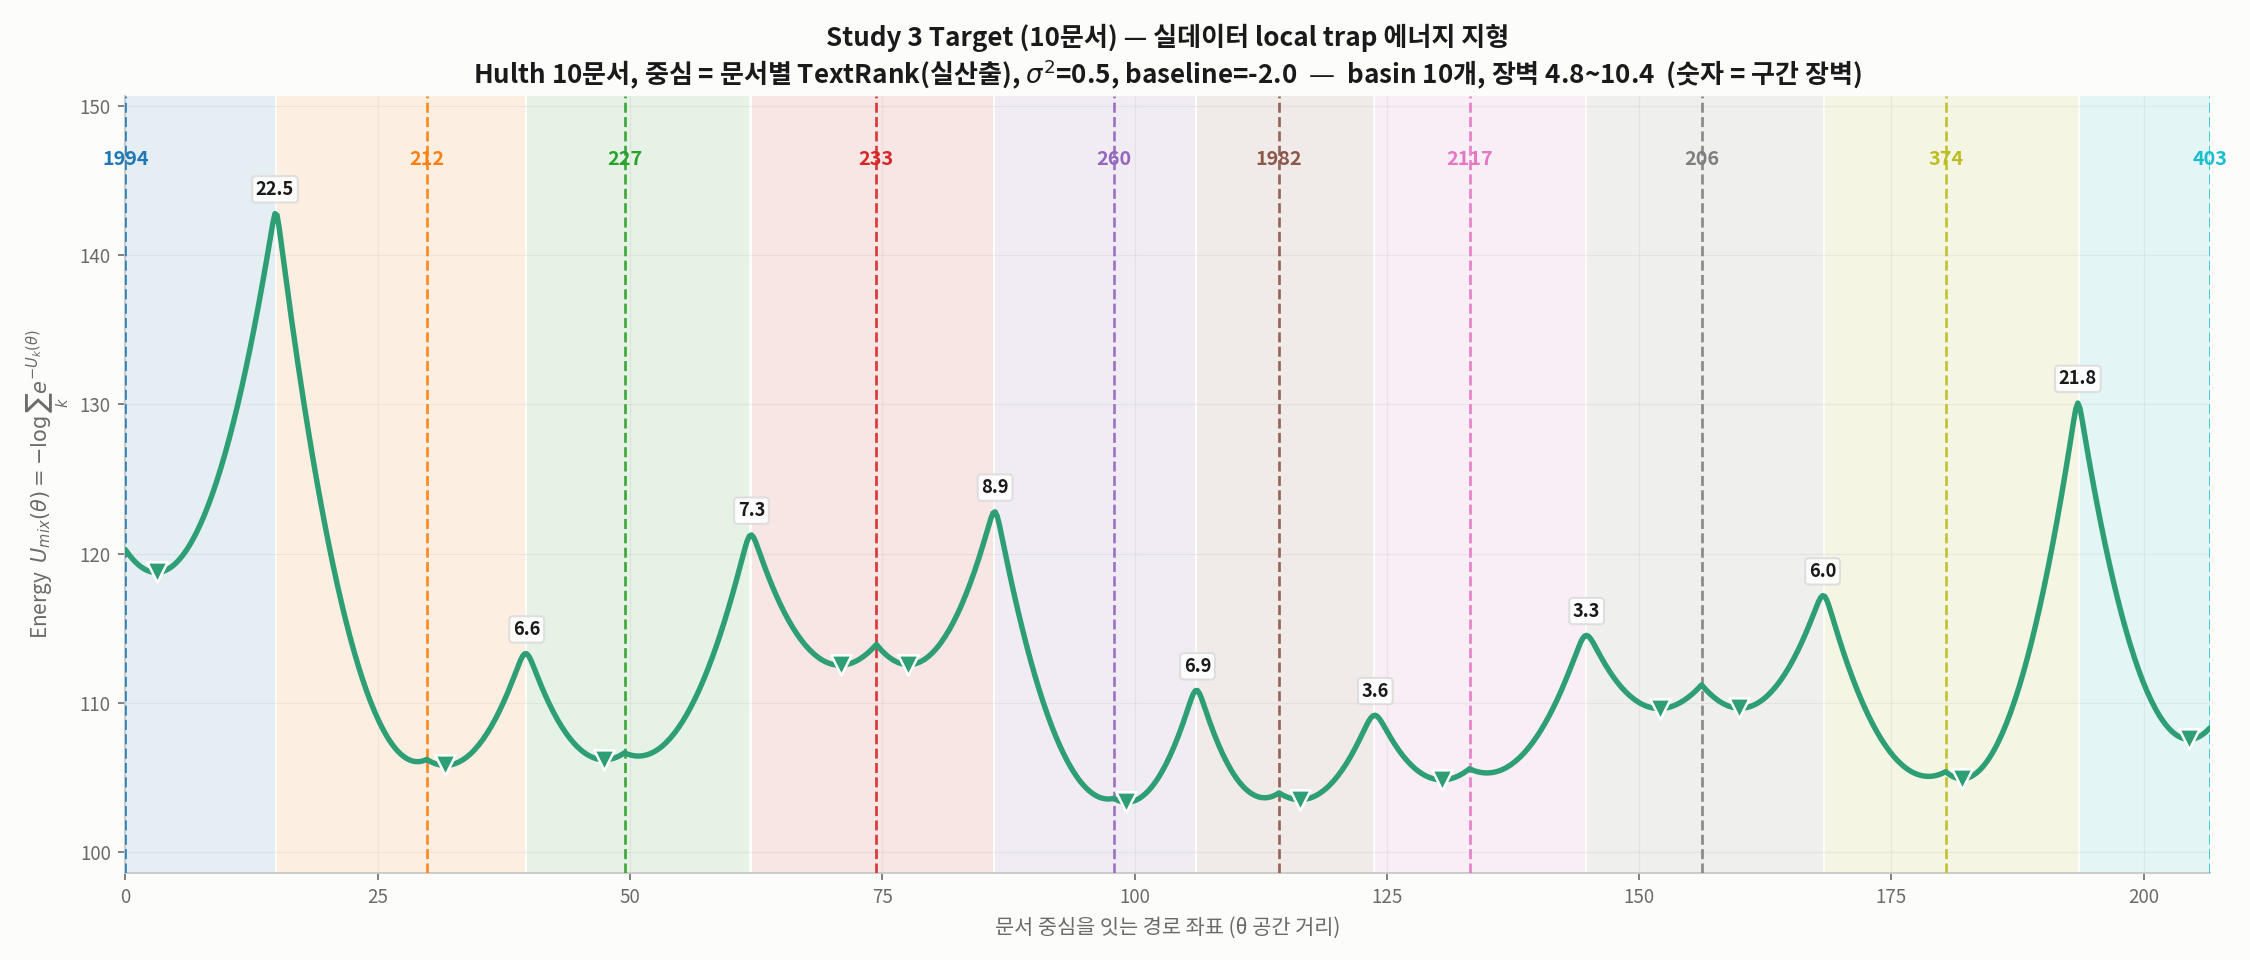
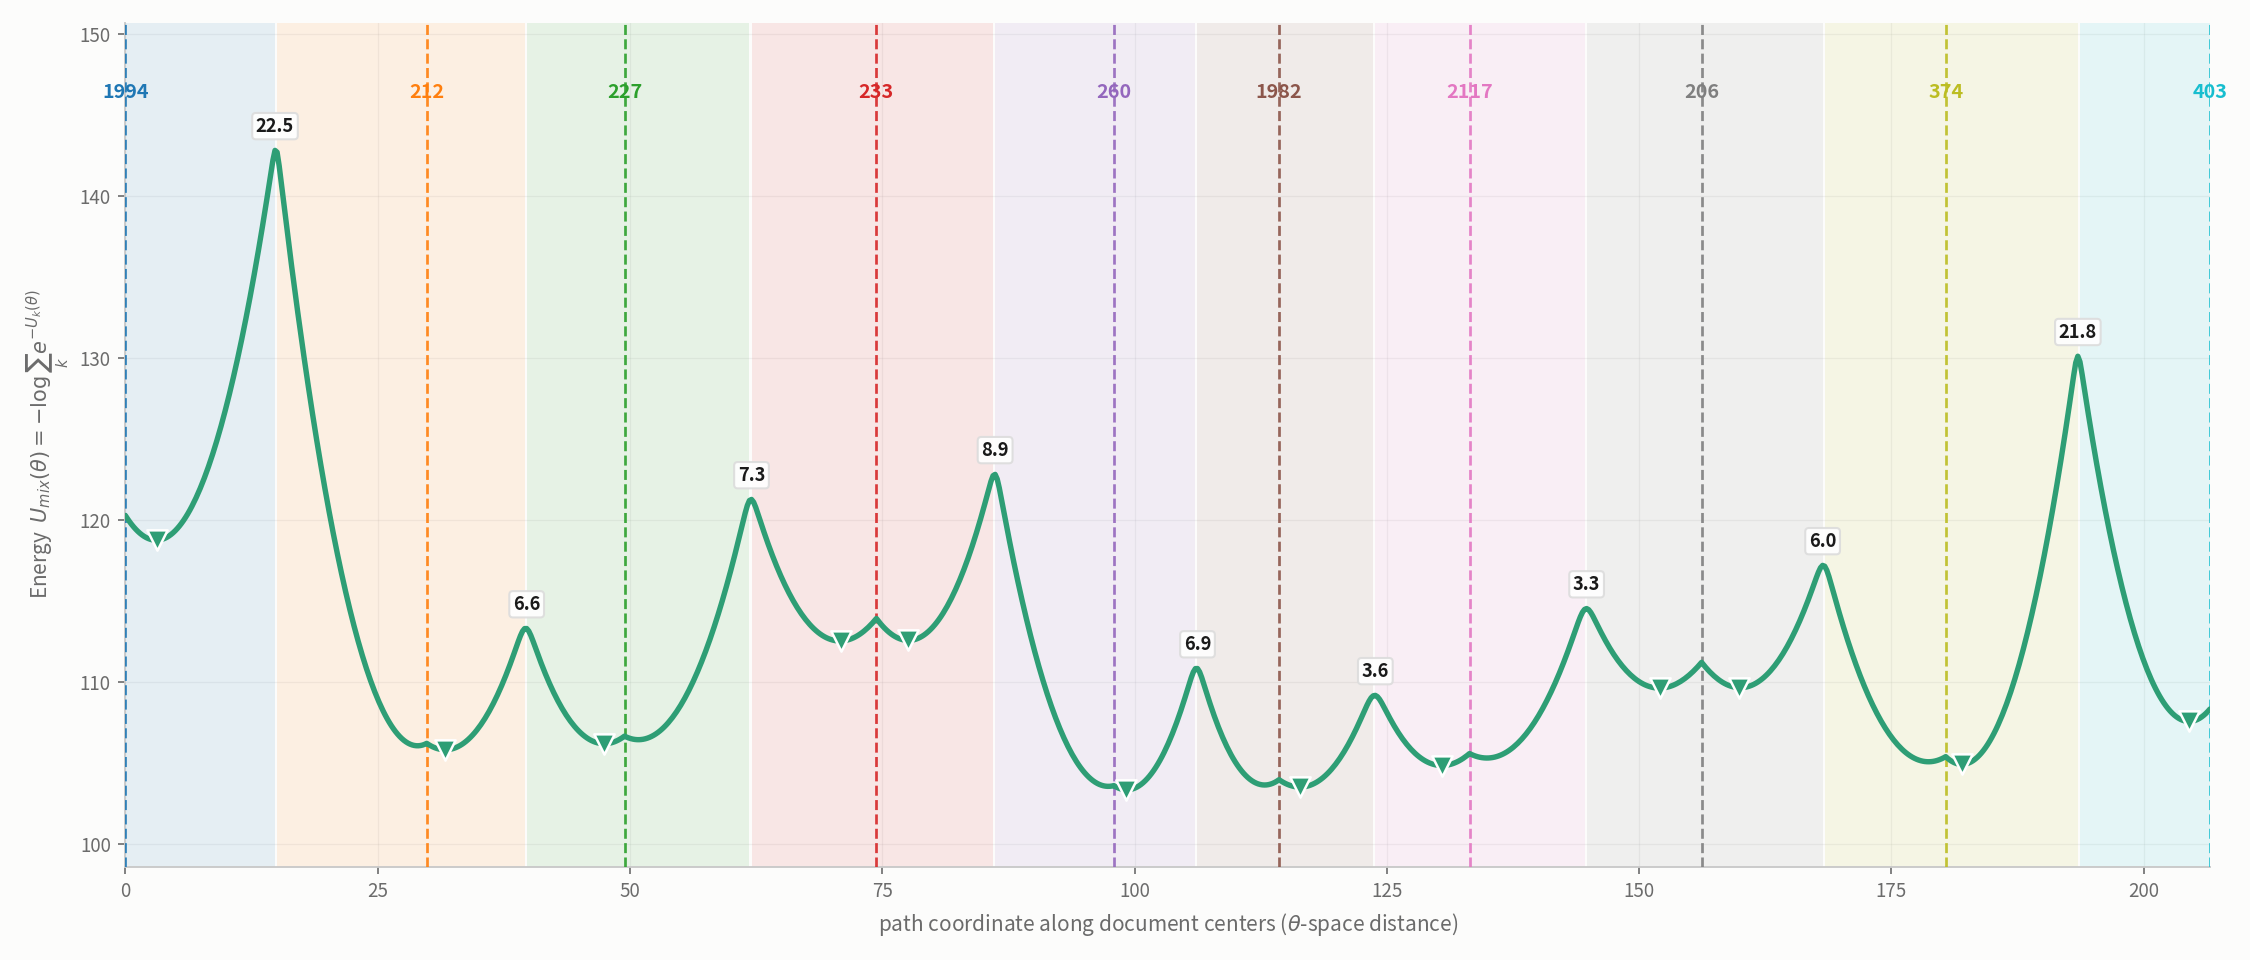
exp: Study 3 trap landscape 영문화 + 샘플러 갱신

diff --git a/simulation/study_3/trap_samplers.py b/simulation/study_3/trap_samplers.py
@@ -71,6 +71,40 @@ def awsgld(U, gU, mode, ini, seed, T, P, L, TAU=1.0, ZETA=5.0, eps0=0.1,
                 boundary_rate=nboundary / max(T - warmup, 1))
 
 
+def sgld_family(method, U, gU, mode, ini, seed, T, P, L, TAU=1.0, base_lr=1.0,
+                friction=0.1, cyc_cycles=10):
+    """study_1a/1b sgld_only.py 의 SGLD 계열을 trap(U_mix, gU) 위로 이식.
+    규칙 그대로: qSGLD 만 전처리(P,L), SGLD/cycSGLD/SGHMC 는 무전처리.
+    U/gU 는 이미 /TAU 된 함수(=exp(-U_raw/TAU) 타깃). noise sqrt(2·TAU·eps)."""
+    rng = np.random.RandomState(seed)
+    n = len(ini); th = ini.copy()
+    ths = np.zeros((T, n)); mo = np.zeros(T, dtype=np.int8)
+    v = np.zeros(n)
+    for t in range(T):
+        g = gU(th)
+        if method == "SGLD":
+            eps = base_lr / ((t + 1) ** 0.6 + 10.0)
+            th = th - eps * g + np.sqrt(2.0 * TAU * eps) * rng.randn(n)
+        elif method == "qSGLD":
+            eps = base_lr / ((t + 1) ** 0.6 + 10.0)
+            th = th - eps * (P @ g) + np.sqrt(2.0 * TAU * eps) * (L @ rng.randn(n))
+        elif method == "cycSGLD":
+            cyc = max(1, T // cyc_cycles); beta = (t % cyc) / cyc
+            eps = base_lr / 2.0 * (np.cos(np.pi * min(beta, 0.8)) + 1.0)
+            tau_k = TAU if beta >= 0.8 else TAU / 1e4
+            th = th - eps * g + np.sqrt(2.0 * tau_k * eps) * rng.randn(n)
+        elif method == "SGHMC":
+            eta = base_lr / ((t + 1) ** 0.6 + 10.0)
+            th = th + v
+            v = ((1.0 - friction) * v - eta * g
+                 + np.sqrt(2.0 * friction * eta * TAU) * rng.randn(n))
+        else:
+            raise ValueError(method)
+        th = np.clip(th, -700, 700)
+        ths[t] = th; mo[t] = mode(th)
+    return dict(theta=ths, mode=mo)
+
+
 def summarize(res, K, burn, ini_mode):
     """모드 방문/탈출 요약."""
     mo = res['mode'][burn:]

diff --git a/simulation/study_3/trap_landscape.py b/simulation/study_3/trap_landscape.py
@@ -104,16 +104,12 @@ for i in range(K - 1):
     a, b = center_x[i], center_x[i + 1]
     m = (xs >= a) & (xs <= b)
     j = np.argmax(np.where(m, E, -np.inf))
-    ax.annotate(f"장벽 {bars[i]:.1f}", (xs[j], E[j]), textcoords='offset points',
+    ax.annotate(f"barrier {bars[i]:.1f}", (xs[j], E[j]), textcoords='offset points',
                 xytext=(0, 14), ha='center', fontsize=10.5, fontweight='bold', color=INK,
                 bbox=dict(fc='white', ec='#d8d8d8', boxstyle='round,pad=0.28', alpha=0.92))
 
-ax.set_xlabel('문서 중심을 잇는 경로 좌표', color=MUT)
+ax.set_xlabel('path coordinate along document centers', color=MUT)
 ax.set_ylabel('Energy  $U_{mix}(\\theta) = -\\log\\sum_k e^{-U_k(\\theta)}$', color=MUT)
-ax.set_title("Study 3 Target — 실데이터 기반 local trap 에너지 지형\n"
-             f"Hulth {K}문서, 중심 = 문서별 TextRank(실산출),  "
-             f"$\\sigma^2$={SIG2},  baseline={TB.BASELINE}  —  ▼ local min",
-             fontsize=12.5, fontweight='bold', color=INK)
 ax.set_xlim(xs.min(), xs.max())
 ax.set_ylim(E.min() - 0.13 * np.ptp(E), E.max() + 0.16 * np.ptp(E))
 ax.grid(alpha=0.18, lw=0.6); ax.set_axisbelow(True)

diff --git a/simulation/study_3/trap10_landscape.py b/simulation/study_3/trap10_landscape.py
@@ -74,12 +74,8 @@ for i in range(K-1):
     ax.annotate(f"{bars[i]:.1f}", (xs[j], E[j]), textcoords='offset points', xytext=(0, 9),
                 ha='center', fontsize=8.8, fontweight='bold', color=INK,
                 bbox=dict(fc='white', ec='#dcdcdc', boxstyle='round,pad=0.2', alpha=0.9))
-ax.set_xlabel('문서 중심을 잇는 경로 좌표 (θ 공간 거리)', color=MUT)
+ax.set_xlabel('path coordinate along document centers ($\\theta$-space distance)', color=MUT)
 ax.set_ylabel('Energy  $U_{mix}(\\theta) = -\\log\\sum_k e^{-U_k(\\theta)}$', color=MUT)
-ax.set_title(f"Study 3 Target (10문서) — 실데이터 local trap 에너지 지형\n"
-             f"Hulth {K}문서, 중심 = 문서별 TextRank(실산출), $\\sigma^2$={SIG2}, "
-             f"baseline={TB.BASELINE}  —  basin {nb}개, 장벽 {bmin:.1f}~{bmax:.1f}  (숫자 = 구간 장벽)",
-             fontsize=12.5, fontweight='bold', color=INK)
 ax.set_xlim(xs.min(), xs.max())
 ax.set_ylim(E.min()-0.12*rng_E, E.max()+0.20*rng_E)
 ax.grid(alpha=0.16, lw=0.6); ax.set_axisbelow(True)
